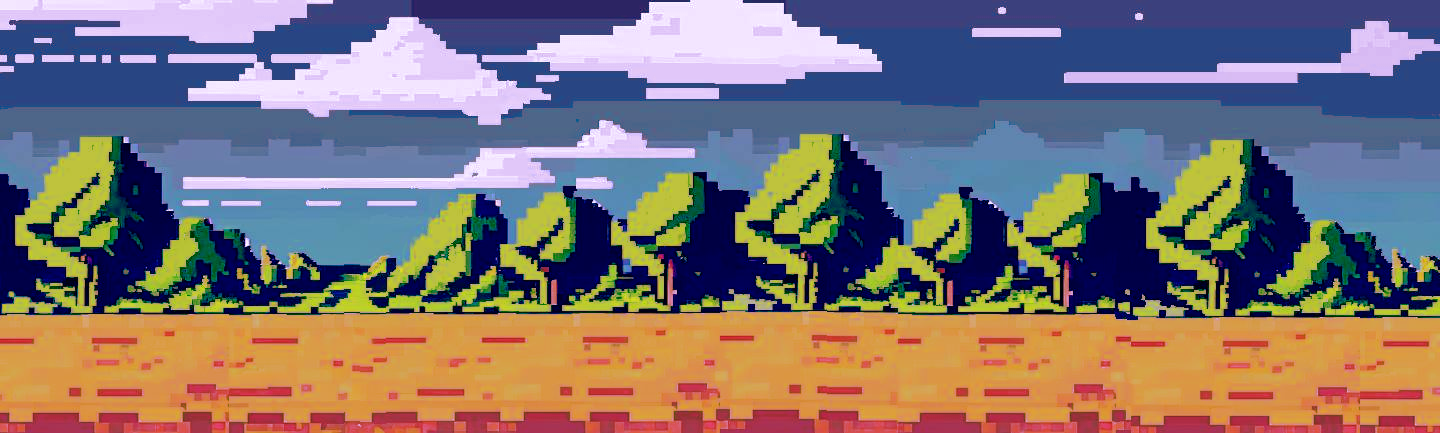
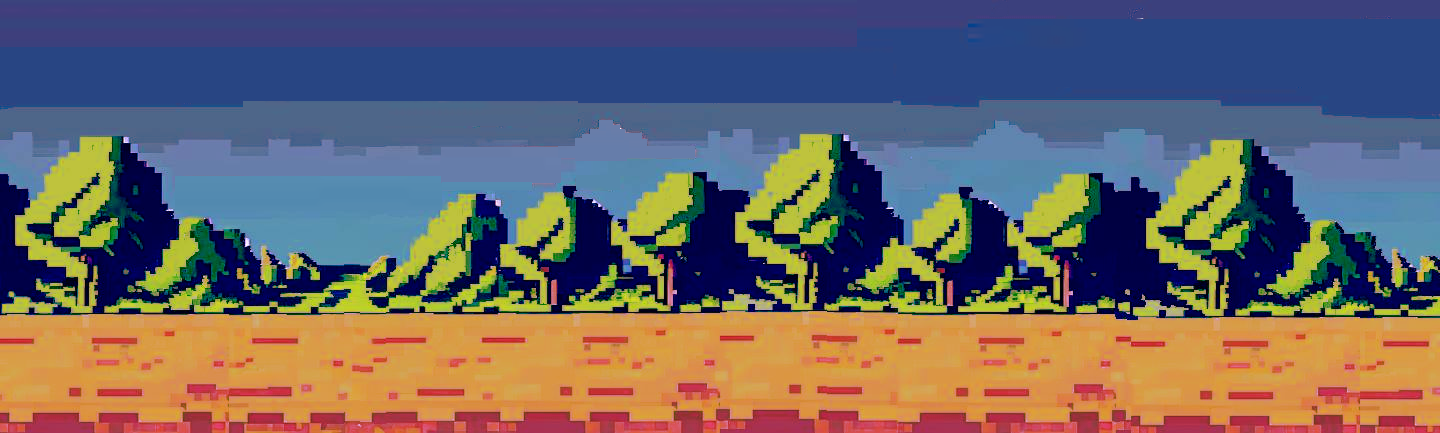
Added sperate cloud layer.

diff --git a/level.py b/level.py
@@ -1,7 +1,7 @@
 import pygame
 from tiles import Tile
 from settings import tile_size, screen_width, screen_height
-from characters import Player, Enemy, Background
+from characters import Player, Enemy, Background,Background_clouds
 
 class Level:
     def __init__(self,level_data,surface):
@@ -14,8 +14,13 @@ class Level:
         self.cat = pygame.sprite.GroupSingle()
         self.player = pygame.sprite.GroupSingle()
         self.tiles = pygame.sprite.Group()
+        
         self.background = pygame.sprite.Group()
         background = Background((0,0))
+
+        self.background_clouds = pygame.sprite.Group()
+        background_clouds = Background_clouds((0,0))
+
         for row_index,row in enumerate(layout):
             for column_index,column in enumerate(row):
                 x = column_index * tile_size
@@ -31,8 +36,8 @@ class Level:
                         tile = Tile((x,y),tile_size,column)
                         self.tiles.add(tile)
         self.background.add(background)
-    def camera_scrollx(self):
 
+    def camera_scrollx(self):
         player = self.player.sprite
         player_x = player.rect.centerx
         direction_x = player.direction.x
@@ -89,6 +94,9 @@ class Level:
         #background
         self.background.update(self.world_shift_x,self.world_shift_y)
         self.background.draw(self.display_surface)
+        
+        self.background_clouds.update(self.world_shift_x,self.world_shift_y)
+        self.background_clouds.draw(self.display_surface)
         #level tiles
         self.tiles.update(self.world_shift_x,self.world_shift_y)
         self.tiles.draw(self.display_surface)

diff --git a/characters.py b/characters.py
@@ -160,3 +160,13 @@ class Background(pygame.sprite.Sprite):
     def update(self,x_shift,y_shift):
         self.rect.x += (x_shift * 0.7)
         self.rect.y += (y_shift * 0.7)
+    
+class Background_clouds(pygame.sprite.Sprite):
+    def __init__(self,pos):
+        super().__init__()
+        self.image = pygame.image.load("assets/background/background_clouds.png")
+        self.direction = pygame.math.Vector2(0,0)
+        self.rect = self.image.get_rect(topleft = pos)
+    def update(self,x_shift,y_shift):
+        self.rect.x += (x_shift * 0.3)
+        self.rect.y += (y_shift * 0.3)

diff --git a/main.py b/main.py
@@ -9,7 +9,6 @@ screen_height = 433
 screen = pygame.display.set_mode((screen_width,screen_height))
 clock = pygame.time.Clock()
 level = Level(level_map,screen)
-#background = pygame.image.load("assets/background/background.png")
 pygame.init()
 #game loop
 while True:
@@ -17,7 +16,6 @@ while True:
         if event.type == pygame.QUIT:
             pygame.quit()
             sys.exit()
-    #screen.blit(background, (0,0))
     level.run()
     pygame.display.update()
     clock.tick(60)
